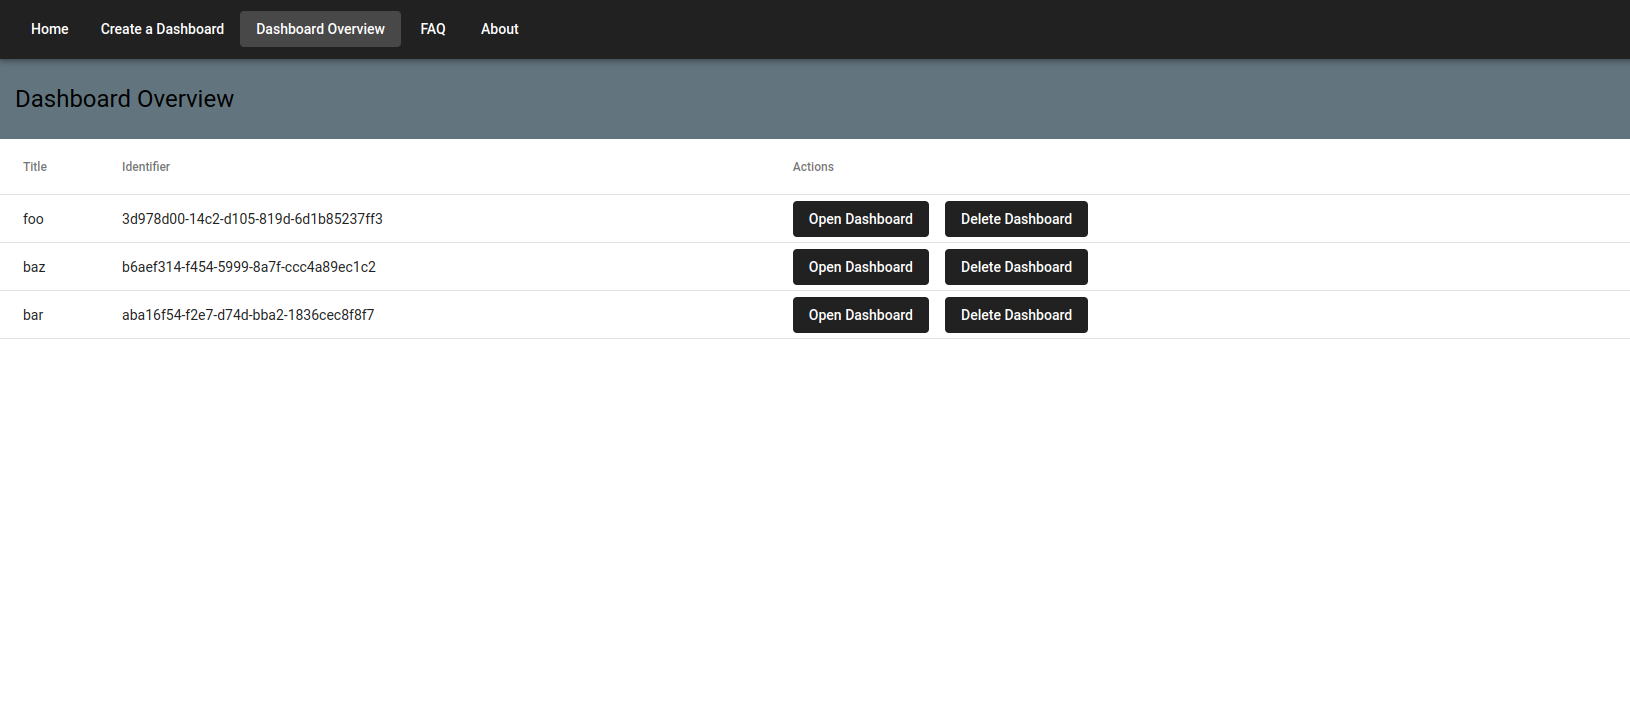
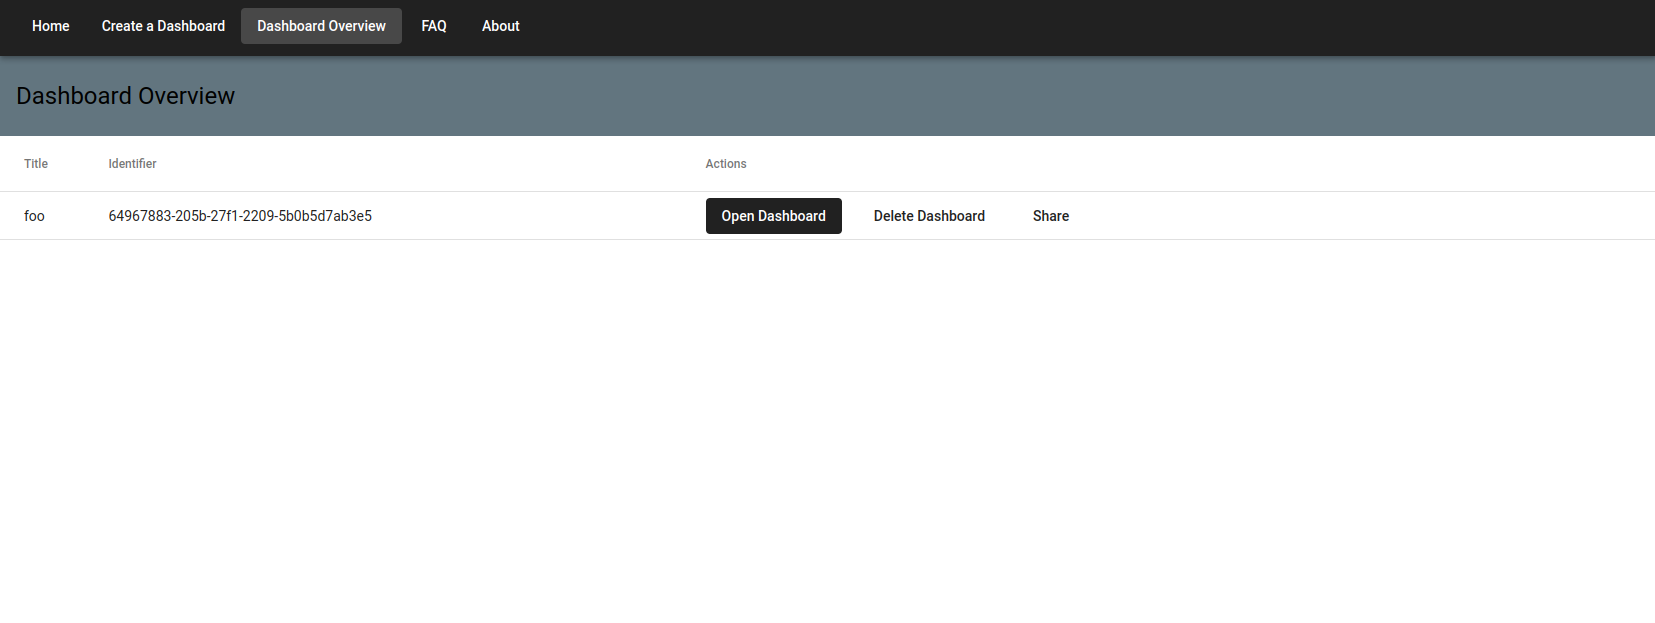
Implement sharing functionality

diff --git a/frontend/src/app/components/dashboard-overview/dashboard-overview.component.ts b/frontend/src/app/components/dashboard-overview/dashboard-overview.component.ts
@@ -5,6 +5,7 @@ import { finalize, Subject, takeUntil } from 'rxjs';
 import { AppRoutes } from 'src/app/config/app-routes';
 import { DashboardService } from 'src/app/services/dashboard.service';
 import { RouteHeadingService } from 'src/app/services/route-heading.service';
+import { Clipboard } from '@angular/cdk/clipboard';
 
 @Component({
   selector: 'app-dashboard-overview',
@@ -24,7 +25,7 @@ export class DashboardOverviewComponent implements OnInit, OnDestroy {
   public readonly displayedColumns: string[] = ['title', 'identifier', 'actions'];
 
 
-  constructor(private readonly dashboardService: DashboardService, private readonly router: Router, private readonly routeHeadingService: RouteHeadingService, private readonly snackbar: MatSnackBar) { }
+  constructor(private readonly dashboardService: DashboardService, private readonly router: Router, private readonly routeHeadingService: RouteHeadingService, private readonly snackbar: MatSnackBar, private readonly clipboard: Clipboard) { }
 
   public ngOnInit(): void {
     this.loading = true;
@@ -44,6 +45,13 @@ export class DashboardOverviewComponent implements OnInit, OnDestroy {
     this.router.navigate([AppRoutes.DASHBOARD], {
       queryParams: { identifier: dashboard.identifier }
     });
+  }
+
+  public copyShareLink(dashboard: { identifier: string, title: string }) {
+    const shareLink = `http://localhost:4200/dashboard?identifier=${dashboard.identifier}`
+    this.clipboard.copy(shareLink);
+    const message = `A share link was copied into your clipboard, please open a new tab and paste it`
+    this.snackbar.open(message, 'Close');
   }
 
   public deleteDashboard(dashboard: { identifier: string, title: string }) {

diff --git a/frontend/src/app/components/dashboard-overview/dashboard-overview.component.html b/frontend/src/app/components/dashboard-overview/dashboard-overview.component.html
@@ -16,7 +16,8 @@
             <th mat-header-cell *matHeaderCellDef>Actions</th>
             <td mat-cell *matCellDef="let dashboard" class="actions">
                 <button mat-flat-button color="primary" (click)="openDashboard(dashboard)">Open Dashboard</button>
-                <button mat-flat-button color="primary" (click)="deleteDashboard(dashboard)">Delete Dashboard</button>
+                <button mat-flat-button (click)="deleteDashboard(dashboard)">Delete Dashboard</button>
+                <button mat-flat-button (click)="copyShareLink(dashboard)">Share</button>
             </td>
         </ng-container>
 

diff --git a/frontend/src/index.html b/frontend/src/index.html
@@ -1,8 +1,9 @@
 <!doctype html>
 <html lang="en">
+
 <head>
   <meta charset="utf-8">
-  <title>Frontend</title>
+  <title>Covid PyDash</title>
   <base href="/">
   <meta name="viewport" content="width=device-width, initial-scale=1">
   <link rel="icon" type="image/x-icon" href="favicon.ico">
@@ -10,7 +11,9 @@
   <link href="https://fonts.googleapis.com/css2?family=Roboto:wght@300;400;500&display=swap" rel="stylesheet">
   <link href="https://fonts.googleapis.com/icon?family=Material+Icons" rel="stylesheet">
 </head>
+
 <body class="mat-typography">
   <app-root></app-root>
 </body>
+
 </html>
